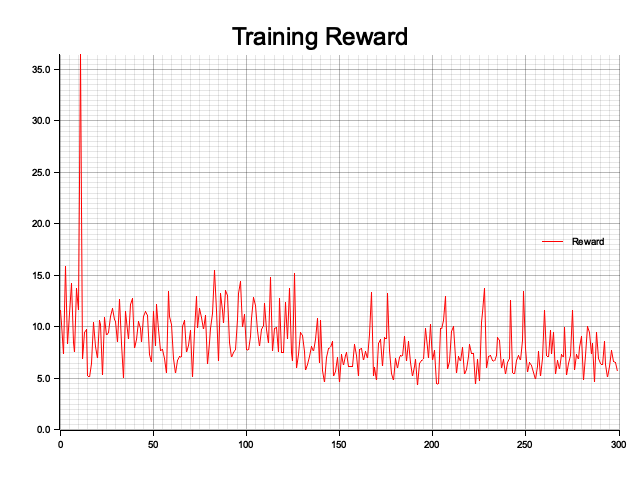
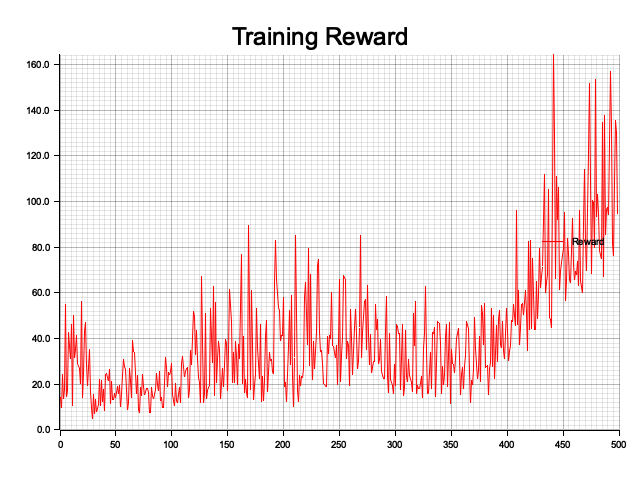
refactor: improve comments and adjust training parameters in DQN agent and integration tests

Changed region(s): [[0.0312, 0.125, 0.9688, 0.9375]]

diff --git a/src/algorithms/dqn.rs b/src/algorithms/dqn.rs
@@ -65,7 +65,7 @@ where
     fn update_policy_network(&mut self) {
         use tch::Kind;
 
-        // sampling minibatch
+        // Sample minibatch
         let minibatch: Vec<_> = self
             .replay_buffer
             .iter()
@@ -89,7 +89,7 @@ where
             dones.push(d);
         }
 
-        // 转 Tensor
+        // Convert to tensors
         let state_batch = Tensor::stack(
             &states
                 .into_iter()
@@ -99,8 +99,6 @@ where
         )
         .squeeze_dim(1)
         .to(self.device);
-        // println!("state_batch shape: {:?}", state_batch.dim());
-        // println!("{:?}", state_batch);
 
         let next_state_batch = Tensor::stack(
             &next_states
@@ -111,72 +109,55 @@ where
         )
         .squeeze_dim(1)
         .to(self.device);
-        // println!("next_state_batch shape: {:?}", next_state_batch.dim());
-        // println!("{:?}", next_state_batch);
 
         let action_batch =
             Tensor::from_slice(&actions.into_iter().map(|a| a.into()).collect::<Vec<_>>())
                 .to_device(self.device)
                 .unsqueeze(1);
-        // println!("action_batch shape: {:?}", action_batch.dim());
-        // println!("{:?}", action_batch);
 
         let reward_batch = Tensor::from_slice(&rewards)
             .to_device(self.device)
             .unsqueeze(1);
-        // println!("reward_batch shape: {:?}", reward_batch.dim());
-        // println!("{:?}", reward_batch);
 
         let done_batch = Tensor::from_slice(
             &dones
                 .iter()
-                .map(|&d| if d { 0.0 } else { 1.0 })
+                .map(|&d| if d { 1.0 } else { 0.0 })
                 .collect::<Vec<_>>(),
         )
         .to_device(self.device)
         .unsqueeze(1);
-        // println!("done_batch shape: {:?}", done_batch.dim());
-        // println!("{:?}", done_batch);
 
-        // current q values
+        // Compute current Q values
         let q_values = self
             .policy_net
             .model
             .forward(&state_batch)
             .gather(1, &action_batch, false);
 
-        // target q values
-        let next_q_values = self
-            .target_net
-            .model
-            .forward(&next_state_batch)
-            .max_dim(1, false)
-            .0; // Extract the tensor from the tuple
-        let expected_q_values: Tensor =
-            &reward_batch + self.gamma * next_q_values * (1 - done_batch);
+        // Compute target Q values (no gradient)
+        let next_q_values = tch::no_grad(|| {
+            self.target_net
+                .model
+                .forward(&next_state_batch)
+                .max_dim(1, false)
+                .0
+        });
 
+        let expected_q_values: Tensor =
+            &reward_batch + self.gamma * next_q_values.unsqueeze(1) * (1.0 - done_batch);
+
+        // Compute loss
         let loss = (q_values - expected_q_values.detach())
-            .pow(&Tensor::from(2))
+            .pow_tensor_scalar(2.0)
             .mean(Kind::Float);
 
         self.optimizer.backward_step(&loss);
     }
 
     fn update_target_network(&mut self) {
-        use tch::no_grad;
-
-        let policy_vars = self.policy_net.var_store().variables();
-        let target_vars = self.target_net.var_store().variables();
-
-        no_grad(|| {
-            for (name, mut target_var) in target_vars {
-                if let Some(policy_var) = policy_vars.get(&name) {
-                    // detach + move to same device just in case
-                    let detached = policy_var.detach().to_device(target_var.device());
-                    target_var.copy_(&detached);
-                }
-            }
-        });
+        let policy_state = self.policy_net.var_store();
+        self.target_net.var_store.copy(policy_state).unwrap();
     }
 }
 
@@ -284,7 +265,7 @@ where
             }
             self.replay_buffer.push_back((
                 state.clone(),
-                action,
+                action.clone(),
                 stepresult.reward.into(),
                 stepresult.next_state.clone(),
                 stepresult.done,

diff --git a/src/networks/mlp.rs b/src/networks/mlp.rs
@@ -2,7 +2,7 @@ use tch::{Device, nn};
 
 pub struct MLP {
     pub model: nn::Sequential,
-    var_store: nn::VarStore, // 👈 保存 VarStore 的所有权
+    pub var_store: nn::VarStore, // 👈 保存 VarStore 的所有权
 }
 
 impl MLP {
@@ -11,13 +11,13 @@ impl MLP {
             .add(nn::linear(
                 &vs.root() / "layer1",
                 input_dim.try_into().unwrap(),
-                128,
+                64,
                 Default::default(),
             ))
             .add_fn(|xs| xs.relu())
             .add(nn::linear(
                 &vs.root() / "output",
-                128,
+                64,
                 output_dim.try_into().unwrap(),
                 Default::default(),
             ));

diff --git a/tests/integration_test.rs b/tests/integration_test.rs
@@ -10,11 +10,11 @@ fn dqn_cart_pole_test() {
     let mut agent = DqnAgent::<CartPole>::new(
         env.state_space(),
         env.action_space(),
-        0.995,
+        0.99,
         0.1,
         32,
         2,
         device,
     );
-    agent.train(&mut env, 300, 10, true);
+    agent.train(&mut env, 500, 10, true);
 }

diff --git a/src/utils.rs b/src/utils.rs
@@ -1,4 +1,4 @@
-use tch::{Device, Tensor};
+use tch::Tensor;
 
 pub trait ToTensor {
     fn to_tensor(&self) -> Tensor;
